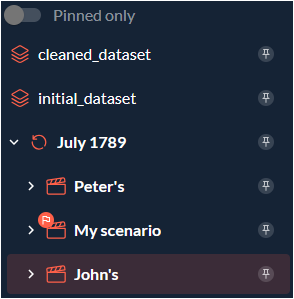
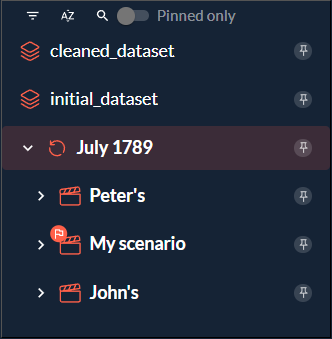
Backport - Data node selector doc update for 4.0 (#1210)

diff --git a/taipy_theme/assets/stylesheets/avaiga.css b/taipy_theme/assets/stylesheets/avaiga.css
@@ -915,12 +915,19 @@ figure.tp-center {
 [data-md-color-scheme="default"] .visible-dark{
   display: none;
 }
-
 [data-md-color-scheme="slate"] .visible-light{
   display: none;
 }
+
 a.md-content__button{
   display: none;
+}
+
+svg.mui-icon{
+    width: 1.4em;
+    height: 1.4em;
+    vertical-align: middle;
+    fill: currentColor;
 }
 
 .tp-btn-parent,

diff --git a/docs/release-notes/index.md b/docs/release-notes/index.md
@@ -42,19 +42,36 @@ Published on 2024-10.
 
 <h4><strong><code>taipy</code></strong> 4.0.0</h4>
 
-- The User Experience of the Scenario and Data management Visual elements have been greatly
-  improved by the following new functionalities:
-    - The multiple selection is now available on the data node selector: TODO add details
-    - A filter capability has been added to the data node selector: TODO add details
-    - A sort capability has been added to the data node selector: TODO add details
-    - A search capability has been added to the data node selector: TODO add details
-    - A new detail panel has been added to the job selector: TODO add details
-    - The multiple selection is now available on the scenario selector: TODO add details
+The User Experience of the Scenario and Data management controls have been greatly improved by the
+following new functionalities:
+
+- [*Scenario Selector*](../refmans/gui/viselements/corelements/scenario_selector.md):
+    - Multiple selection is now available.<br/>
+      See the [*multiple*](../refmans/gui/viselements/corelements/scenario_selector.md#p-multiple)
+      property for more details.
     - A filter capability has been added to the scenario selector: TODO add details
     - A sort capability has been added to the scenario selector: TODO add details
     - A search capability has been added to the scenario selector: TODO add details
-    - The data node viewer now offers the possibility to upload/download data for the file
-        based data nodes: TODO add details
+- [*Data Node Selector*](../refmans/gui/viselements/corelements/data_node_selector.md):
+    - Multiple selection is now available.<br/>
+      See the [*multiple*](../refmans/gui/viselements/corelements/data_node_selector.md#p-multiple)
+      property for more details.
+    - Users can now filter data nodes in the list.<br/>
+      See the
+      [section on Filtering](../refmans/gui/viselements/corelements/data_node_selector.md#filtering)
+      for more details.
+    - Users can now sort data nodes in the list.<br/>
+      See the
+      [section on Sorting](../refmans/gui/viselements/corelements/data_node_selector.md#sorting) for
+      more details.
+    - Users can now search data nodes in the list<br/>
+      See the
+      [section on Searching](../refmans/gui/viselements/corelements/data_node_selector.md#searching)
+      for more details.
+- [*Data Node Viewer*](../refmans/gui/viselements/corelements/data_node.md):
+    - Users can now upload and download data of file-based data nodes.
+- [*Job Selector*](../refmans/gui/viselements/corelements/job_selector.md):
+    - A new detail panel has been added to the job selector.
 
 <h4><strong><code>taipy-gui</code></strong> 4.0.0</h4>
 
@@ -238,7 +255,25 @@ Published on 2024-10.
 
 <h4><strong><code>taipy-gui</code></strong> 4.0.0</h4>
 
-- The value of multiline [`input`](../refmans/gui/viselements/generic/pane.md) controls is
+- The `-H` command line option is broken.<br/>
+  You must use the long `--host` option instead to specify the server hostname.
+- The *id* and *payload* parameters of the `on_action` callback functions are swapped.<br/>
+  See [issue #2045](https://github.com/Avaiga/taipy/issues/2045).
+- The chart control refresh may stop rendering automatically if too many data changes are
+  requested. The page must be refreshed manually.<br/>
+  See [issue #1992](https://github.com/Avaiga/taipy/issues/1992).
+- Aggregation in a table control may raise an error if the table has columns holding dates.<br/>
+  See [issue #1994](https://github.com/Avaiga/taipy/issues/1994).
+- Table columns are too narrow if there are many.<br/>
+  See [issue #2082](https://github.com/Avaiga/taipy/issues/2082).
+- Styling is not applied to a [`table`](../refmans/gui/viselements/generic/table.md) control if its
+  [*rebuild*](../refmans/gui/viselements/generic/table.md#p-rebuild) property is set to
+  True.<br/>
+  See [issue #2005](https://github.com/Avaiga/taipy/issues/2005).
+
+<h4>4.0.0</h4>
+
+- The value of multiline [`input`](../refmans/gui/viselements/generic/input.md) controls is
   cleared when the ENTER key is pressed.<br/>
   See [issue #1762](https://github.com/Avaiga/taipy/issues/1762).
 - The [`chart`](../refmans/gui/viselements/generic/chart.md) control properly handles its
